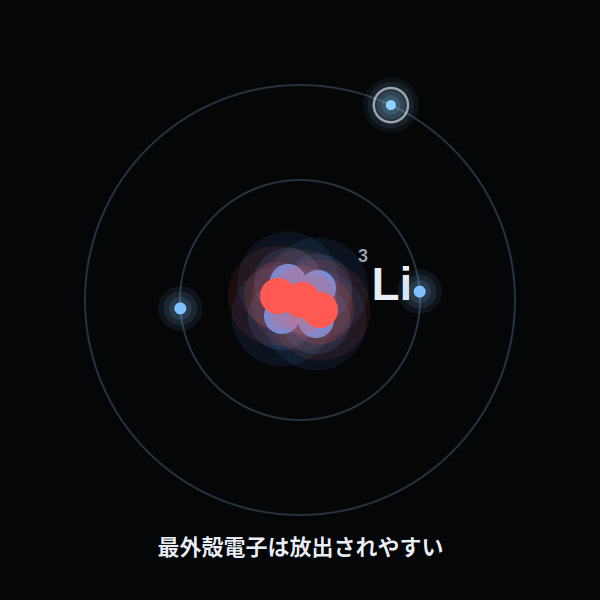
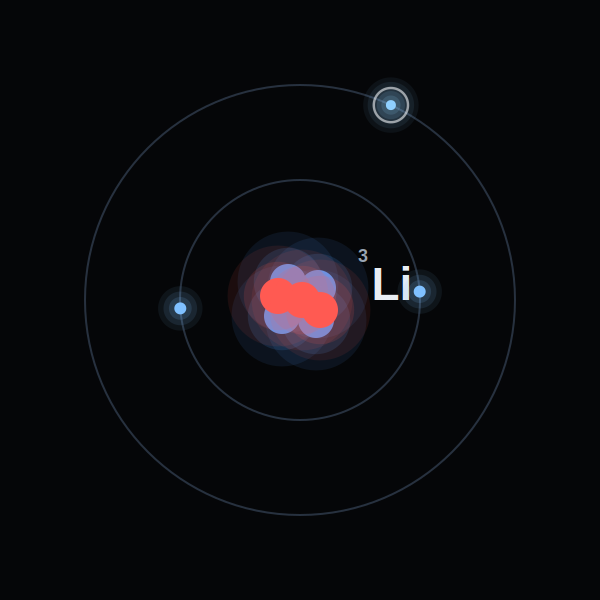
Remove telop and extend lithium animation to ~15s
テロップを削除し、シームレスループで約15秒尺に変更。

Claude-Session: https://claude.ai/code/session_01Kg4gHG9qE31FJUM2AMLmoU

Changed region(s): [[0.24, 0.87, 0.75, 0.93]]

diff --git a/eyecatch/make_lithium_anim_dark.py b/eyecatch/make_lithium_anim_dark.py
@@ -82,21 +82,27 @@ def build_svg(frame):
   </g>
   {inner_s}
   {outer}
-  <text x="{CX}" y="555" font-family="Noto Sans CJK JP, sans-serif" font-size="22" font-weight="bold" fill="#e9eef5" text-anchor="middle">最外殻電子は放出されやすい</text>
 </svg>'''
 
 
-frames = []
+# FRAMES = 1ループ分。これをシームレスに繰り返して約15秒の尺にする。
+FPS = 20
+
+base = []
 for f in range(FRAMES):
     png = cairosvg.svg2png(bytestring=build_svg(f).encode("utf-8"),
                            output_width=W, output_height=H)
-    frames.append(Image.open(io.BytesIO(png)).convert("RGB"))
+    base.append(Image.open(io.BytesIO(png)).convert("RGB"))
 
-frames[len(frames) // 4].save("lithium_atom_dark.png")
+# 15秒 = FPS * 15 = 300 フレーム分（baseをシームレスに繰り返す）
+total = FPS * 15
+frames = [base[i % FRAMES] for i in range(total)]
+
+base[FRAMES // 4].save("lithium_atom_dark.png")
 frames[0].save("lithium_atom_dark.gif", save_all=True, append_images=frames[1:],
-               duration=45, loop=0, optimize=True)
-print("GIF OK")
+               duration=int(1000 / FPS), loop=0, optimize=True)
+print(f"GIF OK ({len(frames)} frames, {len(frames)/FPS:.1f}s)")
 
 imageio.mimwrite("lithium_atom_dark.mp4", [np.asarray(fr) for fr in frames],
-                 fps=30, codec="libx264", quality=8, macro_block_size=8)
-print("MP4 OK")
+                 fps=FPS, codec="libx264", quality=8, macro_block_size=8)
+print(f"MP4 OK ({len(frames)/FPS:.1f}s)")